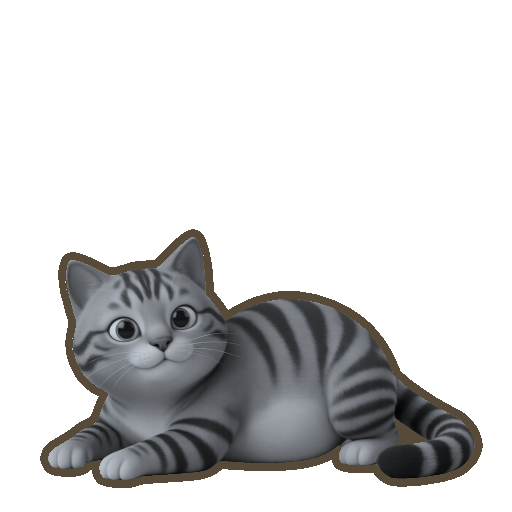
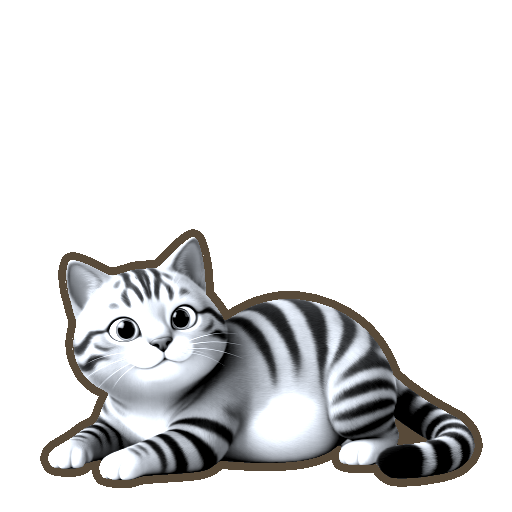
Кошки игроков: 28 настоящих снимков через настоящий код, и что он с ними делает
Черты снимал я тем же запросом и тем же перечнем значений, что у службы —
ключа к ней нет, а за облако мы не платим. Подменено только чтение снимка;
построение шубы, маски, цвет и обводка настоящие. Все 28 построились.

Находка 1. Рисунок шерсти почти не виден. tabby в точности равен solid, и это
сделано нарочно: полосы нарисованы в силуэте, вычисляемая штриховка убрана.
Но убрать нарисованные полосы нечем — сплошной кот всё равно полосатый, и на
смотровой сетке все шесть строк рисунка выглядят одинаково. Прочие рисунки
меняют 18…41 % точек, а на глаз не различаются. Вопрос к владельцу: второй
силуэт без полос или сглаживание полос в коде.

Находка 2, исправлена. Цвет умножался на светлоту рисунка, то есть отсчитывался
от чёрного, и белая кошка не могла стать светлее 0,60 по устройству. Вся
палитра лежала в 0,17…0,51: белая, серая и кремовая были одним мутным тоном.
Теперь свет работает вокруг цвета шубы — точка средней светлоты выходит ровно
цветом палитры. Белая 0,51 → 0,66, серая 0,35 → 0,53, кремовая 0,39 → 0,56.

Палитру пришлось перепроверить: она подбиралась под прежнюю арифметику. Чёрный
давал кошку 0,25 — серо-бурого полосатика; чёрные кошки на наших же снимках
меряются 0,08 / 0,18 / 0,23, поэтому 0,17. Замечание про рыжего, который
«растворяется в комнате», делалось против старой арифметики и теперь
недействительно — мерить заново против настоящей комнаты.

Находка 3. Побочно: eye_color не проявлялся никогда, покраска была слишком
[…]

Changed region(s): [[0.0938, 0.4688, 0.9375, 0.9375]]

diff --git a/game/Assets/Editor/BakeTraitSet.cs b/game/Assets/Editor/BakeTraitSet.cs
@@ -1,0 +1,165 @@
+using System;
+using System.Collections.Generic;
+using System.IO;
+using CatShelter.Core;
+using CatShelter.View;
+using UnityEditor;
+using UnityEngine;
+
+/// <summary>
+/// Builds a coat for every set of traits in a file, so a list of real cats can
+/// be put through the real pipeline without a device, a photo picker or a
+/// network call.
+///
+/// What this is for. The game promises the player her own cat, and until
+/// 2026-08-29 nobody had ever seen what that produces for a cat other than the
+/// three the coat grid ships with. The reference photo set (41 images,
+/// `fixtures/reference-photos`) exists for exactly this and had only ever been
+/// used to test whether a photo is *accepted*, not what it turns into.
+///
+/// The traits come from a file rather than from the worker, because the worker
+/// needs an API key and a live endpoint. The file's format is the worker's own
+/// response schema (`tools/traits/schema.json`), so what is fed in here is
+/// exactly what would arrive over the wire — nothing about the coat pipeline is
+/// stubbed or simplified.
+///
+///   Unity -batchmode -quit -projectPath game \
+///         -executeMethod BakeTraitSet.Bake -logFile traits.log
+///
+/// Reads `tools/traits/reference-readings.json`, writes one PNG per entry into
+/// `tools/traits/out/`. Outside Assets on purpose: these are a report, not
+/// content, and they must not end up in the build.
+/// </summary>
+public static class BakeTraitSet
+{
+    private const int Size = 512;
+
+    /// <summary>The standing pose. She is legible in it, and it is the one the
+    /// player meets first.</summary>
+    private const int State = 2;
+
+    public static void Bake()
+    {
+        var root = Directory.GetParent(Application.dataPath)?.Parent?.FullName;
+        if (root == null) { Debug.LogError("[Traits] cannot find the repo root"); return; }
+
+        var input = Path.Combine(root, "tools/traits/reference-readings.json");
+        if (!File.Exists(input))
+        {
+            Debug.LogError($"[Traits] no readings at {input}");
+            return;
+        }
+
+        var outDir = Path.Combine(root, "tools/traits/out");
+        Directory.CreateDirectory(outDir);
+
+        var built = 0;
+        var failed = new List<string>();
+        foreach (var reading in Parse(File.ReadAllText(input)))
+        {
+            CatTraits traits;
+            try
+            {
+                traits = new CatTraits(reading.BaseColor, reading.Pattern,
+                                       reading.FurLength, reading.EyeColor,
+                                       reading.WhiteMarkings);
+            }
+            catch (Exception e)
+            {
+                // A value the worker's schema allows and CatTraits does not is
+                // a real defect, not a bad photo — say which.
+                Debug.LogError($"[Traits] {reading.File}: rejected — {e.Message}");
+                failed.Add(reading.File);
+                continue;
+            }
+
+            var art = CoatBuilder.LoadBase(traits, State);
+            if (art == null)
+            {
+                Debug.LogError($"[Traits] {reading.File}: no silhouette");
+                failed.Add(reading.File);
+                continue;
+            }
+
+            var coat = CoatBuilder.TryBuild(CoatBuilder.Downscale(art, Size), traits, State);
+            if (coat == null)
+            {
+                Debug.LogError($"[Traits] {reading.File}: coat did not build — " +
+                               $"{CoatBuilder.LastFailure}");
+                failed.Add(reading.File);
+                continue;
+            }
+
+            var name = Path.GetFileNameWithoutExtension(reading.File) + ".png";
+            File.WriteAllBytes(Path.Combine(outDir, name), coat.EncodeToPNG());
+            built++;
+            Debug.Log($"[Traits] {name}  {traits}");
+        }
+
+        Debug.Log($"[Traits] done, {built} built" +
+                  (failed.Count > 0 ? $", {failed.Count} failed: {string.Join(", ", failed)}"
+                                    : ", none failed"));
+    }
+
+    private readonly struct Reading
+    {
+        public readonly string File, BaseColor, Pattern, FurLength, EyeColor;
+        public readonly string[] WhiteMarkings;
+
+        public Reading(string file, string baseColor, string pattern,
+                       string furLength, string eyeColor, string[] markings)
+        {
+            File = file; BaseColor = baseColor; Pattern = pattern;
+            FurLength = furLength; EyeColor = eyeColor; WhiteMarkings = markings;
+        }
+    }
+
+    /// <summary>
+    /// A small reader for this one shape, rather than a JSON dependency. The
+    /// same argument as Core/GameSave and Core/TraitsRequest: five string fields
+    /// and one string array does not justify pulling Newtonsoft into the editor
+    /// assembly, and JsonUtility cannot do arrays of strings inside a list
+    /// without a wrapper type anyway.
+    /// </summary>
+    private static IEnumerable<Reading> Parse(string json)
+    {
+        foreach (var chunk in json.Split('{'))
+        {
+            if (!chunk.Contains("\"file\"")) continue;
+            yield return new Reading(
+                Field(chunk, "file"), Field(chunk, "base_color"),
+                Field(chunk, "pattern"), Field(chunk, "fur_length"),
+                Field(chunk, "eye_color"), Markings(chunk));
+        }
+    }
+
+    private static string Field(string chunk, string name)
+    {
+        var at = chunk.IndexOf($"\"{name}\"", StringComparison.Ordinal);
+        if (at < 0) return null;
+        var open = chunk.IndexOf('"', chunk.IndexOf(':', at) + 1);
+        var close = chunk.IndexOf('"', open + 1);
+        return open < 0 || close < 0 ? null : chunk.Substring(open + 1, close - open - 1);
+    }
+
+    private static string[] Markings(string chunk)
+    {
+        var at = chunk.IndexOf("\"white_markings\"", StringComparison.Ordinal);
+        if (at < 0) return Array.Empty<string>();
+        var open = chunk.IndexOf('[', at);
+        var close = chunk.IndexOf(']', open + 1);
+        if (open < 0 || close < 0) return Array.Empty<string>();
+
+        var inside = chunk.Substring(open + 1, close - open - 1).Trim();
+        if (inside.Length == 0) return Array.Empty<string>();
+
+        var parts = inside.Split(',');
+        var list = new List<string>();
+        foreach (var part in parts)
+        {
+            var value = part.Trim().Trim('"');
+            if (value.Length > 0) list.Add(value);
+        }
+        return list.ToArray();
+    }
+}

diff --git a/game/Assets/View/CoatBuilder.cs b/game/Assets/View/CoatBuilder.cs
@@ -34,6 +34,22 @@ namespace CatShelter.View
         // so it is added here rather than sent back to be redrawn.
         private static readonly Color32 Ink = new(0x4A, 0x3B, 0x28, 0xFF);
 
+        /// <summary>
+        /// The lightness the coat colour is pinned to. Measured off the shipped
+        /// silhouette rather than chosen: the body of `cat_2_short_base`
+        /// averages 0.459 of full light. A pixel at this value comes out the
+        /// palette colour exactly.
+        /// </summary>
+        private const float Midtone = 0.459f;
+
+        /// <summary>
+        /// How far light and shadow move away from that colour. At 1.6 the
+        /// deepest shadow on the drawing (v = 0.02) lands at 0.30 of the coat
+        /// colour and the brightest highlight (v = 1.0) at 1.89, clipped — the
+        /// same range the drawing has, carried onto whatever colour the cat is.
+        /// </summary>
+        private const float Contrast = 1.6f;
+
         /// <summary>Coat colours, from the six base_color values. Multiplied
         /// into the greyscale base, so its light and shadow survive.</summary>
         private static readonly Dictionary<string, Color> Coats = new()
@@ -45,7 +61,15 @@ namespace CatShelter.View
             // it to 13 and the cat reads.
             ["ginger"] = new Color(186f / 255f, 108f / 255f, 52f / 255f),
             ["grey"] = new Color(0.60f, 0.62f, 0.65f),
-            ["black"] = new Color(0.28f, 0.26f, 0.26f),
+            // Darkened 2026-08-29, and the reason is the shading change above:
+            // the palette was tuned against the old multiply, where every value
+            // came out roughly half of what was written. Pinned to the mid-tone
+            // instead, 0.28 rendered a black cat at 0.25 of full light — a
+            // grey-brown tabby. The black cats in the reference photographs
+            // measure 0.08, 0.18 and 0.23 (cat_11, cat_04, cat_08), so 0.17
+            // puts her in the middle of what a black cat actually looks like
+            // and keeps the drawn light and shadow.
+            ["black"] = new Color(0.18f, 0.17f, 0.17f),
             ["white"] = new Color(0.96f, 0.94f, 0.90f),
             // Cream is the other coat that warning names. Darkened by the same
             // proportion rather than to a measured value, because the delivery
@@ -842,12 +866,29 @@ namespace CatShelter.View
                     continue;
                 }
 
-                // White fur is light fur, not the coat's own shading in white:
-                // multiplying a white marking by the greyscale value gave grey
-                // paws, which is what the pattern grid showed. The shading is
-                // compressed instead of applied at full depth, so the marking
-                // keeps its modelling and still reads as white.
-                float shade = Mathf.Lerp(v * 1.35f, 0.62f + v * 0.48f, white);
+                // The drawing's light is used as MODELLING around the coat
+                // colour, not as a multiplier up from black.
+                //
+                // Multiplying was the first version and it put a ceiling on the
+                // whole palette. The silhouette's own body averages 0.459 of
+                // full light, so `v * 1.35` averages 0.62, and a white cat —
+                // whose palette entry is 0.96 — came out at 0.51 measured over
+                // the body: mid-grey. Every colour was squeezed into 0.17..0.51
+                // and no cat could read as light-coloured at all. A white cat
+                // was not merely wrong, it was unreachable by construction.
+                //
+                // Centring on the drawing's mid-tone fixes that without losing
+                // the modelling: a pixel at the mid-tone comes out the coat
+                // colour exactly, darker pixels fall towards black and lighter
+                // ones rise towards white, in proportion. White lands near
+                // white, black stays black, and the light and shadow the artist
+                // drew survive in both.
+                float shade = 1f + Contrast * (v - Midtone) / Midtone;
+
+                // White markings keep the old treatment, compressed rather than
+                // applied at full depth: they are already the lightest thing on
+                // the cat and want less range, not more.
+                shade = Mathf.Lerp(shade, 0.62f + v * 0.48f, white);
 
                 px[i] = new Color32(
                     (byte)Mathf.Clamp(target.r * 255f * shade, 0, 255),

diff --git a/tasks/60-shell-build/18-coat-shader/NOTES-user-cats.md b/tasks/60-shell-build/18-coat-shader/NOTES-user-cats.md
@@ -1,0 +1,109 @@
+# Что игра сделает с кошкой игрока — 28 настоящих снимков через настоящий код
+
+Дата: 2026-08-29. Снимки — `fixtures/reference-photos` (20 обычных, 5 размытых,
+3 «снимка снимка»). Шубы построены `BakeTraitSet` тем же `CoatBuilder`, что и в
+игре. Все 28 построились, ни одна не отвалилась.
+
+## Как это сделано, и чего тут нет
+
+Черты обычно приходят от службы `worker`, которая отдаёт снимок модели. Ключа к
+ней нет, и платить за облако мы не будем, поэтому снимки читал я — тем же
+запросом и тем же перечнем значений, что у службы (`tools/traits/schema.json`).
+Показания записаны в `tools/traits/reference-readings.json`.
+
+**Это подменяет только чтение снимка.** Всё, что после — построение шубы, маски,
+цвет, обводка — настоящее, ничего не упрощено. Зато и проверяет это не точность
+службы, а то, во что превращаются черты.
+
+## Находка 1: рисунок шерсти не виден почти никак
+
+Опыт: один цвет, шесть рисунков, замер доли изменённых точек тела.
+
+| рисунок | отличие от «solid» | средняя разница |
+|---|---|---|
+| tabby | **0,0 %** | 0,00 |
+| tuxedo | 18,3 % | 10,1 |
+| calico | 24,3 % | 21,0 |
+| pointed | 34,1 % | 20,6 |
+| bicolor | 41,2 % | 26,9 |
+
+`tabby` **в точности равен** `solid` — и это сделано нарочно и записано в
+`CoatMasks`: 28.08 в силуэт нарисовали настоящие полосы, а вычисляемую штриховку
+убрали как лишнюю. Претензии к коду нет.
+
+Следствие, однако, есть, и оно не решено: **убрать нарисованные полосы нечем.**
+Кот со сплошным окрасом всё равно полосатый. Смотровая сетка на устройстве
+показывает это прямо: шесть строк рисунка выглядят одинаково — полосатый рыжий
+кот в каждой. Прочие четыре рисунка меняют от 18 до 41 % точек, но это слабый
+подкрас под господствующими нарисованными полосами, и на глаз они не
+различаются.
+
+Это вопрос к владельцу, а не к коду: либо второй силуэт без полос (рисунок),
+либо сглаживание нарисованных полос для не-полосатых кошек (код). Пока признак
+`pattern` — одно из пяти, что служба читает со снимка, — почти ничего не решает.
+
+## Находка 2: светлых кошек не бывало — исправлено
+
+Цвет умножался на собственную светлоту рисунка, то есть отсчитывался от чёрного.
+Тело силуэта в среднем 0,459 от полного света, множитель `v * 1,35` даёт 0,62 —
+и **белая кошка не могла стать светлее 0,60 по устройству.** Замер по телу:
+
+| цвет | было | стало |
+|---|---|---|
+| белый | 0,51 | 0,66 |
+| кремовый | 0,39 | 0,56 |
+| серый | 0,35 | 0,53 |
+| рыжий | 0,27 | 0,39 |
+| коричневый | 0,25 | 0,37 |
+| чёрный | 0,17 | 0,18 |
+
+Вся палитра лежала в 0,17…0,51 — ни одна кошка не читалась как светлая, а белая,
+серая и кремовая были почти одним мутным тоном.
+
+Теперь свет рисунка работает **вокруг** цвета шубы, а не отсчитывается от
+чёрного: точка средней светлоты выходит ровно цветом палитры, темнее — падает к
+чёрному, светлее — растёт к белому. Свет и тень, нарисованные художником,
+сохраняются.
+
+**Палитру пришлось перепроверить**, потому что она подбиралась под прежнюю
+арифметику. Чёрный при 0,28 давал кошку 0,25 — серо-бурого полосатика. Чёрные
+кошки на наших же снимках меряются 0,08 / 0,18 / 0,23 (cat_11, cat_04, cat_08),
+поэтому 0,17 ставит её в середину того, как чёрная кошка выглядит. Остальные
+записи палитры я **не** трогал, и вот это стоит перепроверить: замечание про
+рыжего («растворяется в комнате при разнице светлоты 3 из 100») делалось против
+старой арифметики и теперь недействительно — рыжий стал светлее, и его надо
+мерить против настоящей комнаты заново.
+
+## Находка 3: у кошки появились глаза
+
+Побочное следствие, которого я не планировал. Признак `eye_color` не проявлялся
+никогда: покраска была, но выходила такой тёмной, что не читалась. Со светлой
+шубой она стала видна — кошка по умолчанию теперь зеленоглазая.
+
+Это не поломка, а впервые заработавшая возможность, но **все прежние снимки
+игры сняты с тёмными глазами**, и выглядит она иначе. Решать владельцу.
+
+## Находка 4: длинная шерсть игнорируется
+
+Три кошки из 28 (`cat_12`, `cat_18`, `blurry_05`) — длинношёрстные, и все три
+выходят короткошёрстными. Причина записана в `CoatBuilder.LoadBase`: из шести
+силуэтов поставлено три, длинношёрстной колонки нет, идёт откат на
+короткошёрстную с предупреждением в журнале. То есть признак `fur_length` — ещё
+один из пяти — сегодня не работает ни для кого.
+
+## Что вышло хорошо
+
+Серые полосатые, коричневые полосатые и рыжие узнаются: cat_02, cat_05, cat_07,
+cat_19 дают кошку, которую владелец снимка узнал бы. Белые отметины (грудь,
+лапы, морда) видны и стоят на месте. «Снимки снимков» — самый трудный разряд —
+дают правдоподобных кошек: `ofphoto_01/02/03` все три построились без нареканий,
+хотя кошка на них мелкая и вымытая.
+
+## Чего эта проверка не покрывает
+
+- **Точность службы.** Снимки читал я, а не модель за ключом. Насколько
+  Haiku 4.5 совпадёт с этими показаниями — не проверено ничем.
+- **Кошка на устройстве в комнате.** Замеры светлоты сделаны против бумаги
+  карточки, а не против пола комнаты, где кошка и стоит.
+- Пять собак, пять пустых кадров и три кадра с несколькими кошками не
+  прогонялись: их отсеивает более ранняя ступень, до построения шубы.
